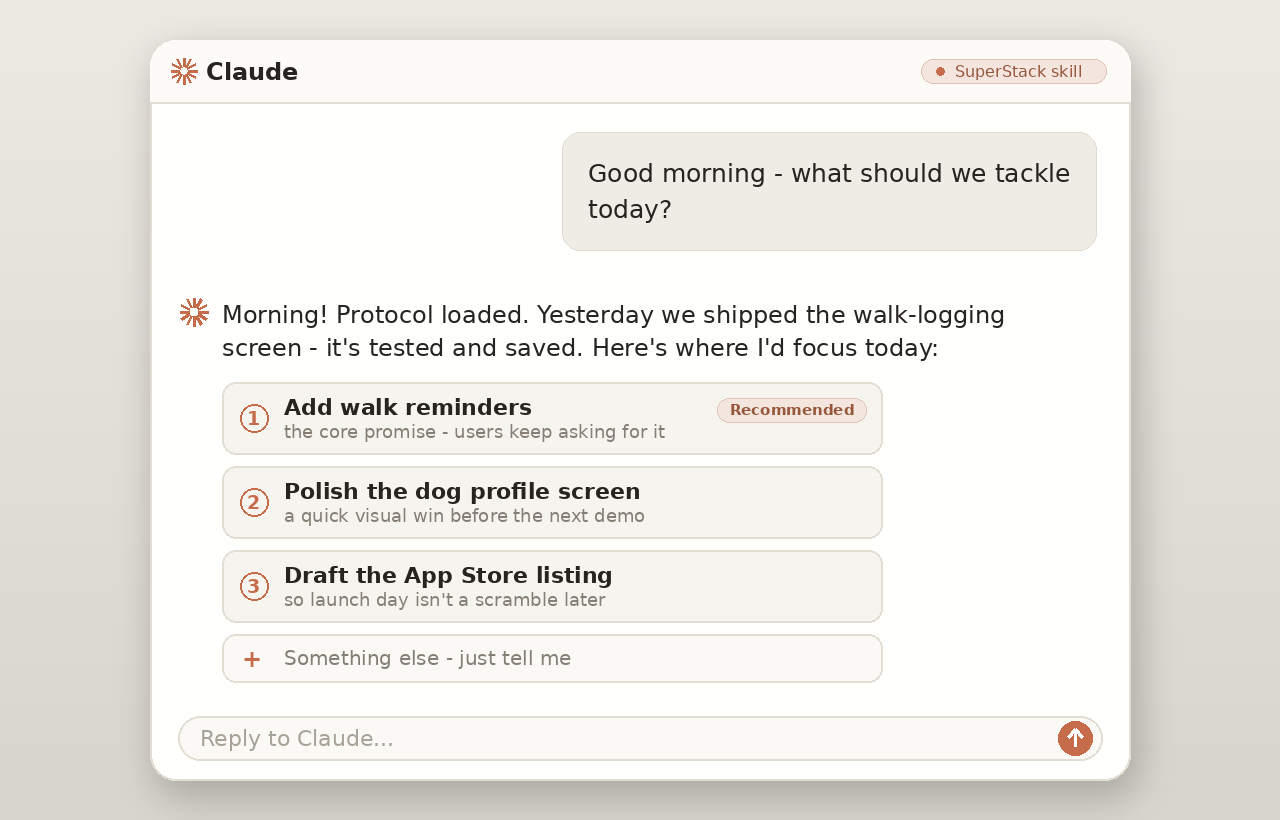
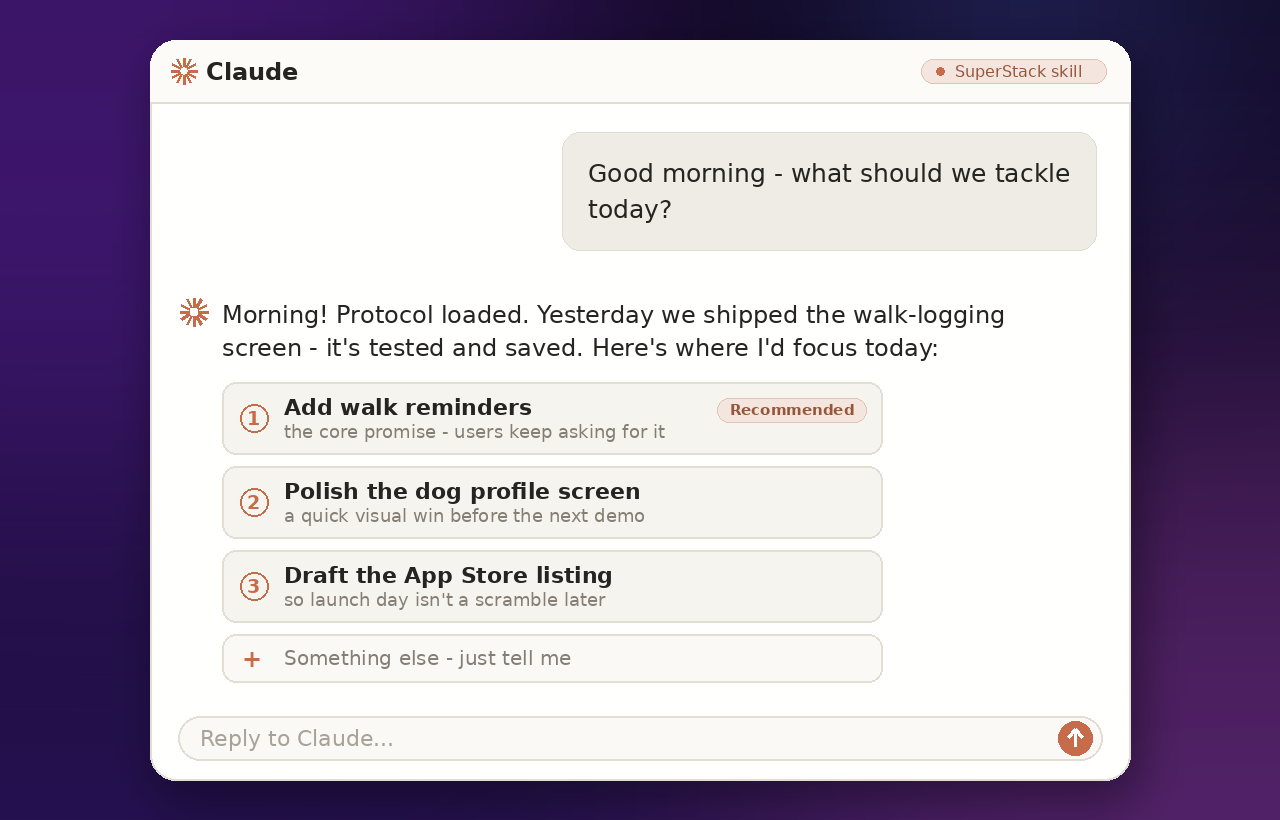
docs: branded media (purple-backdrop Claude mockups, cover, promo gif); drop flow image; embed in README

diff --git a/README.md b/README.md
@@ -117,12 +117,6 @@ it plans, builds, and ships — checking in only when a real decision or risk ne
 
 ## 🗺️ How it works (the full process)
 
-<div align="center">
-
-<img src="https://raw.githubusercontent.com/tomzion90/superstack/main/assets/media/02_flow.png" alt="SuperStack process: idea, kickoff, scaffold, build, launch, repeat" width="820">
-
-</div>
-
 ```
 💡 idea ─▶ 🧭 KICKOFF ─▶ 🏗️ SCAFFOLD ─▶ 🔬 BUILD ─▶ 🌍 LAUNCH ─▶ 🔁 v2
 ```